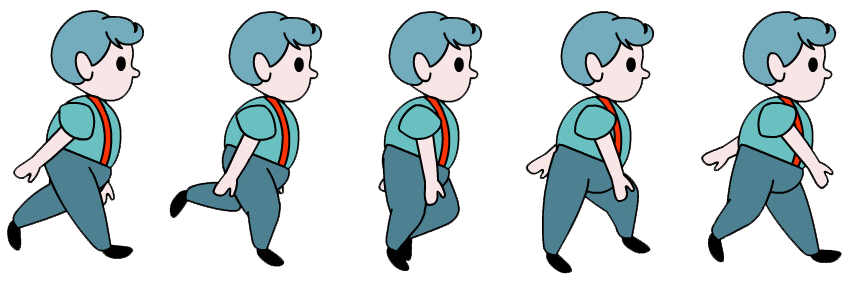
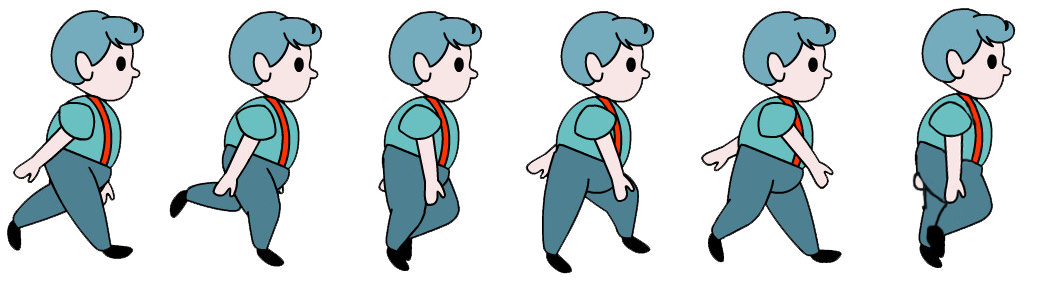
Agregado movimiento de agacharse.

diff --git a/js/main.js b/js/main.js
@@ -2,19 +2,47 @@ document.addEventListener("DOMContentLoaded", function(){
     let personaje= document.getElementById("personaje");
     let viewPersonaje = new ViewPersonaje(personaje);
 
-    document.addEventListener('keydown',saltar);
+    document.addEventListener('keydown',movimiento);
+    //document.addEventListener('keypresed',rodar);
+    //document.addEventListener('keyup',caminar);
 
     let salta = true;
-    function saltar(e) {
+    let down = true;
+    let roll = false;
+
+    function movimiento(e) {
         if(e.key == "ArrowUp" && salta){
-            salta = false;
-            viewPersonaje.salta();
-            setTimeout(caminar,1000);
+            if(roll){
+                //se levanta de rodar
+                roll = false;
+                viewPersonaje.rollUp();
+                setTimeout(caminar,300);
+                //no está rodando
+            }else{
+                //salta
+                salta = false;
+                viewPersonaje.salta();
+                setTimeout(caminar,1000);
+            }
+        }else if(e.key == "ArrowDown" && down && salta){//se pregunta por si está abilitado para saltar si no lo está que no se agache
+            //se agacha
+            down = false;
+            viewPersonaje.down();
+            //empieza a rodar
+            setTimeout(rodar,250);
+        }
+    }
+
+    function rodar(){
+        if(!down){
+            roll = true;
+            viewPersonaje.rodar();
         }
     }
 
     function caminar(){
         salta = true;
+        down = true;
         viewPersonaje.camina();
     }
 });

diff --git a/js/ViewPersonaje.js b/js/ViewPersonaje.js
@@ -3,11 +3,39 @@ class ViewPersonaje {
         this.personaje = personaje;
     }
     salta(){
+        this.personaje.classList.remove("agachar");
+        this.personaje.classList.remove("rodar");
         this.personaje.classList.remove("caminar");
         this.personaje.classList.add("saltar");
     }
+
     camina(){
+        this.personaje.classList.remove("levantar");
         this.personaje.classList.remove("saltar");
+        this.personaje.classList.remove("agachar");
+        this.personaje.classList.remove("rodar");
         this.personaje.classList.add("caminar");
+    }
+
+    down(){
+        this.personaje.classList.remove("saltar");
+        this.personaje.classList.remove("rodar");
+        this.personaje.classList.remove("caminar");
+        this.personaje.classList.add("agachar");
+    }
+
+    rodar(){
+        this.personaje.classList.remove("saltar");
+        this.personaje.classList.remove("agachar");
+        this.personaje.classList.remove("caminar");
+        this.personaje.classList.add("rodar");
+    }
+
+    rollUp(){
+        this.personaje.classList.remove("saltar");
+        this.personaje.classList.remove("agachar");
+        this.personaje.classList.remove("caminar");
+        this.personaje.classList.remove("rodar");
+        this.personaje.classList.add("levantar");
     }
 }

diff --git a/css/style.css b/css/style.css
@@ -21,8 +21,9 @@
 }
 
 .caminar{
+    width: 170px;
     background-image: url(../img/personaje_camina.png);
-    animation: walk 0.5s steps(5) infinite;
+    animation: walk 0.5s steps(6) infinite;
 }
 
 .saltar{
@@ -31,10 +32,29 @@
     animation: jump 1s steps(5);
 }
 
+.agachar{
+    width: 140px;
+    background-image: url(../img/personaje_agacha.png);
+    animation: down 0.5s steps(7);
+}
+
+.rodar{
+    top: 50%;
+    width: 166px;
+    background-image: url(../img/personaje_rueda.png);
+    background-repeat: no-repeat;
+    animation: roll 0.5s steps(4) infinite;
+}
+
+.levantar{
+    width: 140px;
+    background-image: url(../img/personaje_levanta.png);
+    animation: rollUp 0.3s steps(5);
+}
 /* KEYFRAMES- ANIMACIONES*/
 @keyframes walk {
     0%{background-position: 0;}
-    100% {background-position: -850px;}
+    100% {background-position: -1046px;}
 }
 
 @keyframes jump {
@@ -44,6 +64,20 @@
         transform: translateY(50px);}
 }
 
+@keyframes down {
+    0%{background-position: 0;}
+    100% {background-position: -1003px;}
+}
+
+@keyframes roll {
+    0%{background-position: 0;}
+    100% {background-position: -694px;}
+}
+
+@keyframes rollUp {
+    0%{background-position: 0;}
+    100% {background-position: -714px;}
+}
 body{
     text-align: center;
     height: 100vh;
